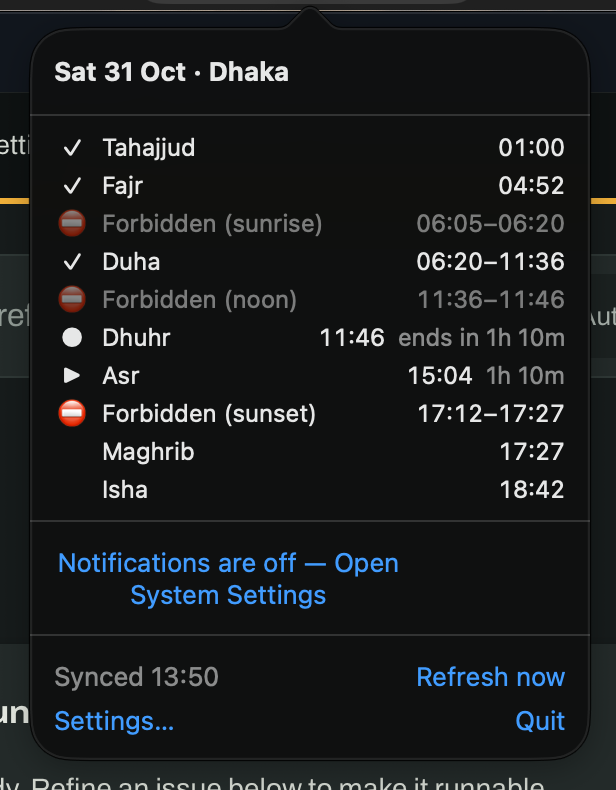
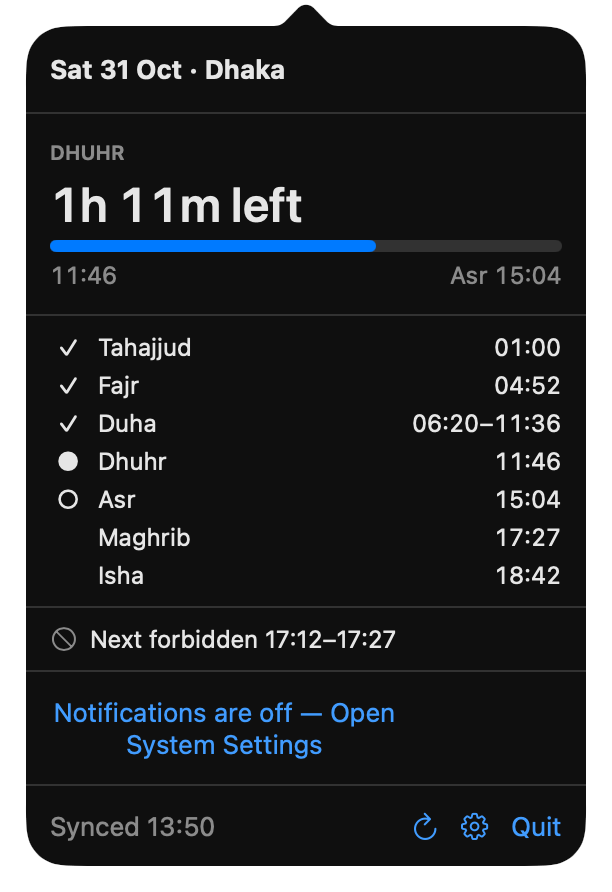
docs(#113): refresh the README menu screenshot for the hero dropdown

diff --git a/README.md b/README.md
@@ -20,7 +20,7 @@
 
 ## Demo
 
-![Menu bar dropdown listing today's events with the current one marked and a countdown](docs/images/menu.png)
+![Menu bar dropdown with a countdown hero above today's event list](docs/images/menu.png)
 
 ![Full-screen overlay showing the event name, its time window and a Dismiss button](docs/images/overlay.png)
 
